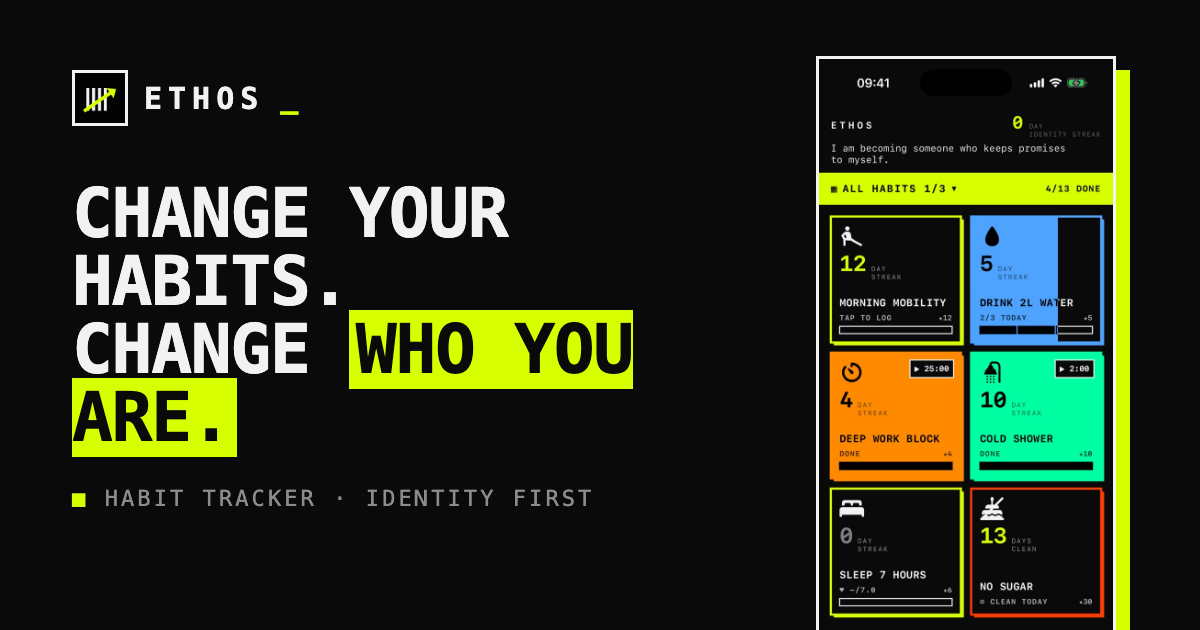
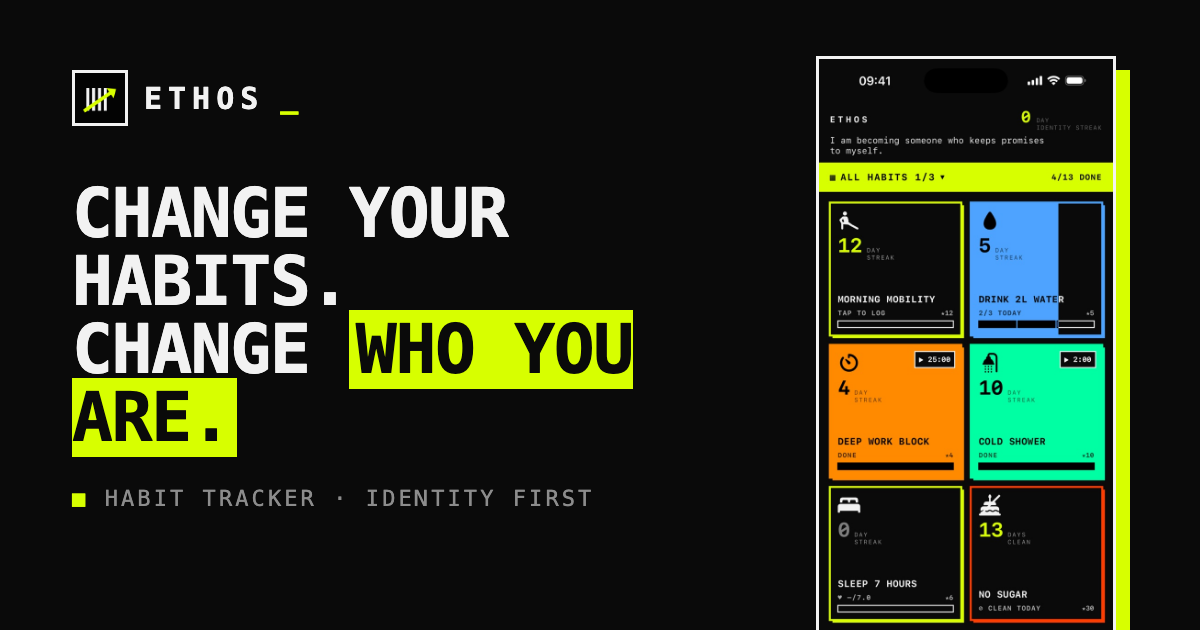
ETHOS landing: use the App Store screenshots, add a screen gallery
Hero, Apple Health and editor sections now show the clean App Store
captures; a scrollable strip shows all seven screens (dashboard, identity,
first launch, new habit, editor, body, calendar). Share image refreshed.

Changed region(s): [[0.6783, 0.181, 0.925, 0.9952], [0.8633, 0.1206, 0.925, 0.1508], [0.7092, 0.1206, 0.74, 0.1508]]

diff --git a/ethos/index.html b/ethos/index.html
@@ -129,6 +129,14 @@ h2 { font-size: clamp(30px, 4.6vw, 58px); line-height: 1.02; text-transform: upp
 .card h3 { font-size: 19px; letter-spacing: .1em; margin-bottom: 10px; }
 .card p { color: #CFCFCF; font-size: 15px; }
 
+/* Screen strip */
+.strip { display: flex; gap: 28px; overflow-x: auto; scroll-snap-type: x mandatory; padding: 40px max(20px, calc((100vw - 1160px) / 2 + 20px)) 28px; scroll-padding-inline: max(20px, calc((100vw - 1160px) / 2 + 20px)); scrollbar-width: thin; scrollbar-color: var(--acid) var(--line); }
+.strip figure { flex: 0 0 auto; width: 250px; scroll-snap-align: start; }
+.strip img { border: 3px solid var(--fg); box-shadow: 8px 8px 0 var(--acid); }
+.strip figure:nth-child(3n+2) img { box-shadow: 8px 8px 0 var(--cyan); }
+.strip figure:nth-child(3n) img { box-shadow: 8px 8px 0 var(--magenta); }
+.strip figcaption { margin-top: 18px; font-size: 12px; letter-spacing: .2em; color: var(--dim); }
+
 /* Privacy */
 .privacy { background: var(--acid); color: var(--bg); }
 .privacy .label { color: rgba(10,10,10,.6); }
@@ -173,6 +181,7 @@ footer a:hover { color: var(--acid); }
 
 @media (max-width: 900px) {
   .links { display: none; }
+  .strip figure { width: 210px; }
   .hero { padding: 48px 0 72px; }
   .hero .wrap, .split { grid-template-columns: 1fr; gap: 48px; }
   .split.rev .shot { order: 0; }
@@ -202,6 +211,7 @@ footer a:hover { color: var(--acid); }
     <div class="links">
       <a href="#how">How it works</a>
       <a href="#features">Features</a>
+      <a href="#screens">Screens</a>
       <a href="#privacy">Privacy</a>
       <a href="#faq">FAQ</a>
     </div>
@@ -222,7 +232,7 @@ footer a:hover { color: var(--acid); }
       <div class="ticks"><span>No account</span><span>No ads</span><span>No tracking</span><span>iOS 18+</span></div>
     </div>
     <div class="phone">
-      <img src="img/dashboard.jpg" width="640" height="1391" alt="The ETHOS dashboard: an identity statement, an identity streak, and colored habit tiles with their streaks.">
+      <img src="img/screens/01_dashboard.jpg" width="640" height="1387" alt="The ETHOS dashboard: an identity statement, an identity streak, and colored habit tiles with their streaks.">
       <span class="sticker">REAL SCREEN</span>
     </div>
   </div>
@@ -289,17 +299,17 @@ footer a:hover { color: var(--acid); }
         <p class="intro">Connect Apple Health and habits like <strong>Walk 8,000 steps</strong>, <strong>Deep sleep 1 hour</strong> or <strong>HRV above 40 ms</strong> tick themselves the day you hit the goal. Read only. Your health data never leaves your iPhone.</p>
         <div class="chips"><span>STEPS</span><span>STAND</span><span>EXERCISE</span><span>ENERGY</span><span>SLEEP · DEEP · REM</span><span>MINDFUL</span><span>HRV</span></div>
       </div>
-      <div class="shot cyan"><img src="img/health.jpg" width="640" height="1391" loading="lazy" alt="ETHOS health habits: steps, deep sleep, weekly steps and HRV goals linked to Apple Health."></div>
+      <div class="shot cyan"><img src="img/screens/05_health.jpg" width="640" height="1387" loading="lazy" alt="The ETHOS Body screen: connect Apple Health to read steps, energy, stand time, heart rate, HRV, sleep and mindful minutes."></div>
     </div>
 
     <div class="split rev reveal">
       <div>
         <p class="label"><b>04</b> / Setup</p>
         <h2>Start in<br>ten seconds.</h2>
-        <p class="intro">Type anything, or pick from 30+ ideas. The icon, pillar, schedule and Health goal set themselves. Then change whatever you like.</p>
-        <div class="chips"><span>WORKOUT</span><span>READ</span><span>DRINK WATER</span><span>COLD SHOWER</span><span>DEEP WORK</span><span>NO SUGAR</span></div>
+        <p class="intro">Type anything, or pick from 30+ ideas. The icon, pillar, schedule and Health goal set themselves. Build a habit or avoid one, pick a color, link it to Apple Health. Done.</p>
+        <div class="chips"><span>HEALTH</span><span>WEALTH</span><span>HAPPINESS</span><span>OTHER</span><span>BUILD</span><span>⊘ AVOID</span></div>
       </div>
-      <div class="shot gold"><img src="img/ideas.jpg" width="640" height="1391" loading="lazy" alt="Creating a habit in ETHOS: type a name or pick from a list of ideas such as Workout, Read and Drink water."></div>
+      <div class="shot gold"><img src="img/screens/02_editor_frequency.jpg" width="640" height="1387" loading="lazy" alt="Editing a habit in ETHOS: name, icon, color, pillar, build or avoid, and an optional Apple Health goal."></div>
     </div>
 
     <div class="grid">
@@ -313,9 +323,25 @@ footer a:hover { color: var(--acid); }
   </div>
 </section>
 
+<section id="screens">
+  <div class="wrap reveal">
+    <p class="label"><b>05</b> / Inside the app</p>
+    <h2>Every screen.<br>No filler.</h2>
+  </div>
+  <div class="strip">
+    <figure><img src="img/screens/01_dashboard.jpg" width="640" height="1387" loading="lazy" alt="Dashboard with habit tiles and streaks."><figcaption>DASHBOARD</figcaption></figure>
+    <figure><img src="img/screens/06_identity.jpg" width="640" height="1387" loading="lazy" alt="Identity screen with the identity statement and identity streak."><figcaption>IDENTITY</figcaption></figure>
+    <figure><img src="img/screens/04_onboarding.jpg" width="640" height="1387" loading="lazy" alt="First-launch tutorial asking: who are you becoming?"><figcaption>FIRST LAUNCH</figcaption></figure>
+    <figure><img src="img/screens/03_ideas_list.jpg" width="640" height="1387" loading="lazy" alt="New habit with a list of ideas."><figcaption>NEW HABIT</figcaption></figure>
+    <figure><img src="img/screens/02_editor_frequency.jpg" width="640" height="1387" loading="lazy" alt="Habit editor with pillar, build or avoid and Apple Health."><figcaption>EDITOR</figcaption></figure>
+    <figure><img src="img/screens/05_health.jpg" width="640" height="1387" loading="lazy" alt="Body screen to connect Apple Health."><figcaption>BODY</figcaption></figure>
+    <figure><img src="img/screens/07_catchup.jpg" width="640" height="1387" loading="lazy" alt="Month calendar to add or erase past days."><figcaption>CALENDAR</figcaption></figure>
+  </div>
+</section>
+
 <section class="privacy" id="privacy">
   <div class="wrap reveal">
-    <p class="label">05 / Privacy</p>
+    <p class="label">06 / Privacy</p>
     <ul class="nos">
       <li>NO ACCOUNT.</li>
       <li>NO SERVER.</li>
@@ -329,7 +355,7 @@ footer a:hover { color: var(--acid); }
 
 <section id="faq">
   <div class="wrap reveal">
-    <p class="label"><b>06</b> / FAQ</p>
+    <p class="label"><b>07</b> / FAQ</p>
     <h2>Questions.</h2>
     <div class="faq">
       <details><summary>Do I need an account?</summary><p>No. Open the app and start. There is nothing to sign up for and nothing to log into.</p></details>
@@ -344,7 +370,7 @@ footer a:hover { color: var(--acid); }
 
 <section class="commit" id="commit">
   <div class="wrap reveal">
-    <p class="label"><b>07</b> / Your turn</p>
+    <p class="label"><b>08</b> / Your turn</p>
     <h2>Who are you becoming?</h2>
     <label class="field" for="who">
       <span>I am becoming someone who</span>
